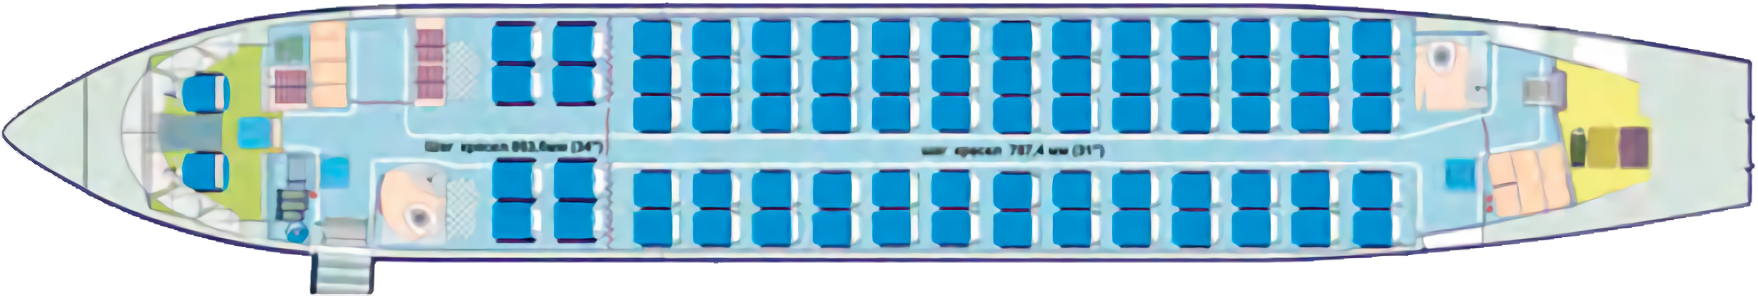
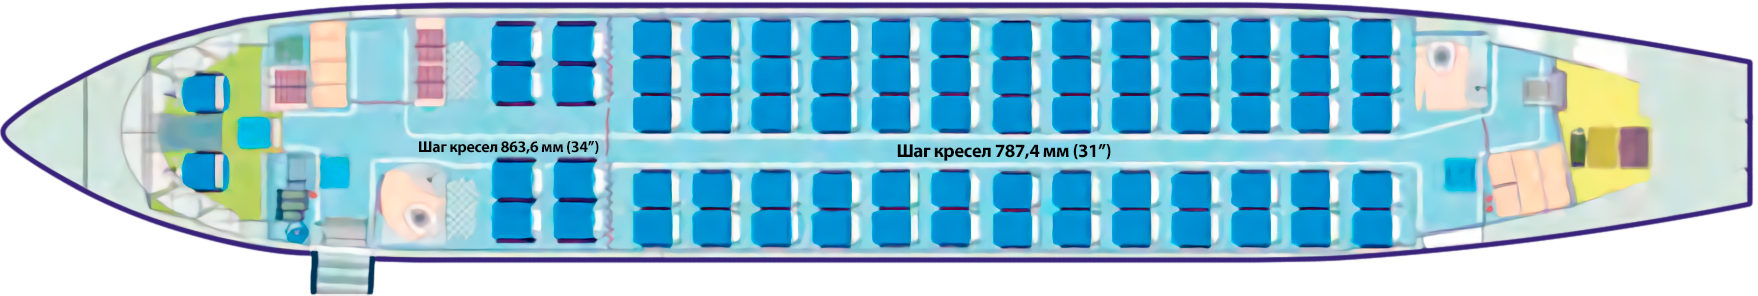
fix(An x2 layouts): text and border quality
feat(header): arrows animation; fix(main): form height

diff --git a/static/main.html b/static/main.html
@@ -48,7 +48,7 @@
                                             class="fas fa-angle-down dropdown-submenu-icon-mobile header-text"
                                         ></i>
                                         Тренажеры&emsp;
-                                        <i class="fas fa-angle-down"></i>
+                                        <i class="fas fa-angle-down dropdown-menu-icon"></i>
                                     </p>
                                     <ul
                                         class="dropdown-header dropdown-content dropdown-content-background jsDropdownList"
@@ -147,7 +147,7 @@
                                             class="fas fa-angle-down dropdown-submenu-icon-mobile header-text"
                                         ></i>
                                         Обучение&emsp;
-                                        <i class="fas fa-angle-down"></i>
+                                        <i class="fas fa-angle-down dropdown-menu-icon"></i>
                                     </p>
                                     <ul
                                         class="dropdown-header dropdown-content dropdown-content-background jsDropdownList"
@@ -178,7 +178,7 @@
                                             class="fas fa-angle-down dropdown-submenu-icon-mobile header-text"
                                         ></i>
                                         О самолетах&emsp;
-                                        <i class="fas fa-angle-down"></i>
+                                        <i class="fas fa-angle-down dropdown-menu-icon"></i>
                                     </p>
                                     <ul
                                         class="dropdown-header dropdown-content dropdown-content-background jsDropdownList"
@@ -214,7 +214,7 @@
                                             class="fas fa-angle-down dropdown-submenu-icon-mobile header-text"
                                         ></i>
                                         Контакты&emsp;
-                                        <i class="fas fa-angle-down"></i>
+                                        <i class="fas fa-angle-down dropdown-menu-icon"></i>
                                     </p>
                                     <ul
                                         class="dropdown-header dropdown-content dropdown-content-background jsDropdownList"
@@ -381,6 +381,7 @@
                             class="contact-form"
                             scrolling="no"
                             width="500"
+                            height="900"
                         >
                             Загрузка…
                         </iframe>

diff --git a/static/trainingAn.html b/static/trainingAn.html
@@ -47,7 +47,7 @@
                                         class="fas fa-angle-down dropdown-submenu-icon-mobile header-text"
                                     ></i>
                                     Тренажеры&emsp;
-                                    <i class="fas fa-angle-down"></i>
+                                    <i class="fas fa-angle-down dropdown-menu-icon"></i>
                                 </p>
                                 <ul
                                     class="dropdown-header dropdown-content dropdown-content-background jsDropdownList"
@@ -134,7 +134,7 @@
                                         class="fas fa-angle-down dropdown-submenu-icon-mobile header-text"
                                     ></i>
                                     Обучение&emsp;
-                                    <i class="fas fa-angle-down"></i>
+                                    <i class="fas fa-angle-down dropdown-menu-icon"></i>
                                 </p>
                                 <ul
                                     class="dropdown-header dropdown-content dropdown-content-background jsDropdownList"
@@ -162,7 +162,7 @@
                                         class="fas fa-angle-down dropdown-submenu-icon-mobile header-text"
                                     ></i>
                                     О самолетах&emsp;
-                                    <i class="fas fa-angle-down"></i>
+                                    <i class="fas fa-angle-down dropdown-menu-icon"></i>
                                 </p>
                                 <ul
                                     class="dropdown-header dropdown-content dropdown-content-background jsDropdownList"
@@ -195,7 +195,7 @@
                                         class="fas fa-angle-down dropdown-submenu-icon-mobile header-text"
                                     ></i>
                                     Контакты&emsp;
-                                    <i class="fas fa-angle-down"></i>
+                                    <i class="fas fa-angle-down dropdown-menu-icon"></i>
                                 </p>
                                 <ul
                                     class="dropdown-header dropdown-content dropdown-content-background jsDropdownList"

diff --git a/static/trainingIl.html b/static/trainingIl.html
@@ -47,7 +47,7 @@
                                         class="fas fa-angle-down dropdown-submenu-icon-mobile header-text"
                                     ></i>
                                     Тренажеры&emsp;
-                                    <i class="fas fa-angle-down"></i>
+                                    <i class="fas fa-angle-down dropdown-menu-icon"></i>
                                 </p>
                                 <ul
                                     class="dropdown-header dropdown-content dropdown-content-background jsDropdownList"
@@ -140,7 +140,7 @@
                                         class="fas fa-angle-down dropdown-submenu-icon-mobile header-text"
                                     ></i>
                                     Обучение&emsp;
-                                    <i class="fas fa-angle-down"></i>
+                                    <i class="fas fa-angle-down dropdown-menu-icon"></i>
                                 </p>
                                 <ul
                                     class="dropdown-header dropdown-content dropdown-content-background jsDropdownList"
@@ -168,7 +168,7 @@
                                         class="fas fa-angle-down dropdown-submenu-icon-mobile header-text"
                                     ></i>
                                     О самолетах&emsp;
-                                    <i class="fas fa-angle-down"></i>
+                                    <i class="fas fa-angle-down dropdown-menu-icon"></i>
                                 </p>
                                 <ul
                                     class="dropdown-header dropdown-content dropdown-content-background jsDropdownList"
@@ -201,7 +201,7 @@
                                         class="fas fa-angle-down dropdown-submenu-icon-mobile header-text"
                                     ></i>
                                     Контакты&emsp;
-                                    <i class="fas fa-angle-down"></i>
+                                    <i class="fas fa-angle-down dropdown-menu-icon"></i>
                                 </p>
                                 <ul
                                     class="dropdown-header dropdown-content dropdown-content-background jsDropdownList"

diff --git a/css/main.css b/css/main.css
@@ -456,6 +456,14 @@ body ul li {
 .dropdown-link.text-align-right {
   text-align: right;
 }
+.dropdown-menu-icon {
+  transition: transform 0.2s ease;
+}
+@media screen and (min-width: 1100px) {
+  .dropdown:hover .dropdown-menu-icon {
+    transform: rotate(-180deg);
+  }
+}
 .dropdown-submenu {
   min-width: 120px;
 }
@@ -1474,4 +1482,4 @@ footer {
 .content-loaded {
   display: none;
 }
-/*# sourceMappingURL=./main.css.map */
+/*# sourceMappingURL=main.css.map */

diff --git a/less/header.less b/less/header.less
@@ -243,6 +243,18 @@
         }
     }
 
+    &-menu {
+        &-icon {
+            transition: transform 0.2s ease;
+        }
+    }
+
+    @media screen and (min-width: 1100px) {
+        &:hover .dropdown-menu-icon {
+            transform: rotate(-180deg);
+        }
+    }
+
     &-submenu {
         min-width: 120px;
 
